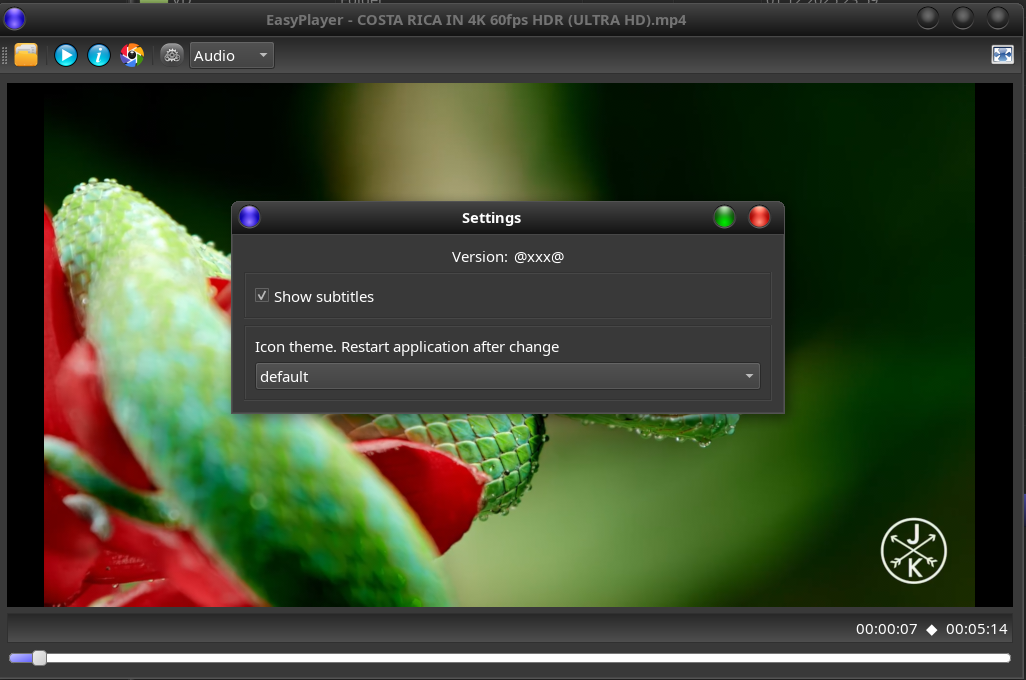
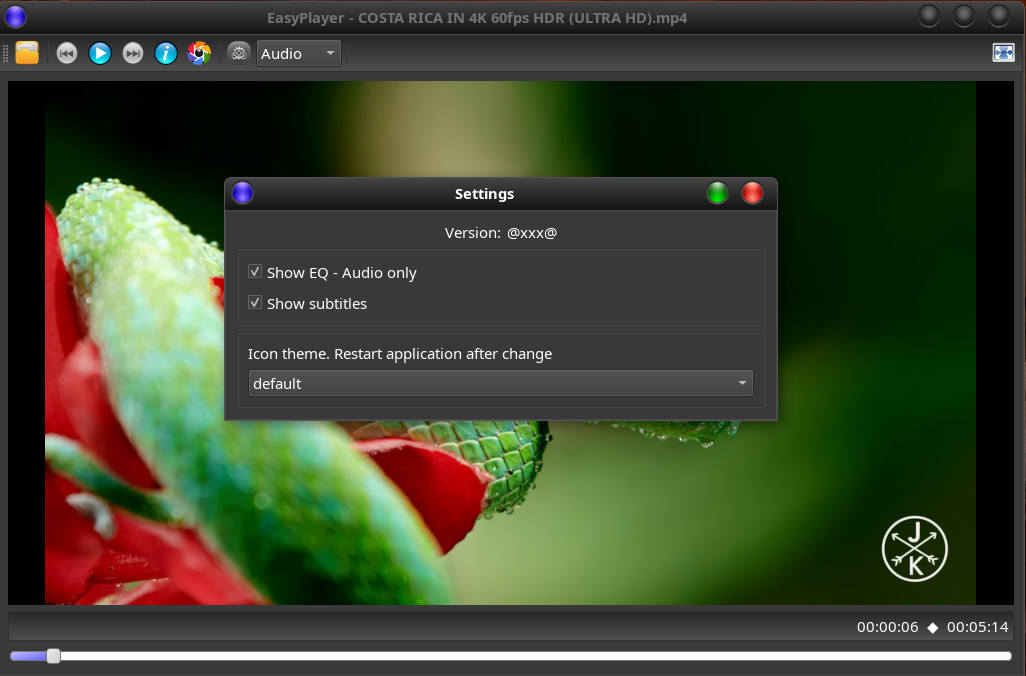
Graphic EQ display

diff --git a/src/EasyPlayer.py b/src/EasyPlayer.py
@@ -30,7 +30,7 @@ from PyQt6.QtOpenGLWidgets import QOpenGLWidget
 from lib.mpv import MPV, MpvGlGetProcAddressFn, MpvRenderContext
 from FFMPEGTools import  FFStreamProbe, OSTools, ConfigAccessor
 import sys, json, FFMPEGTools, getopt, traceback, locale, os, re
-from threading import Condition
+from threading import Condition, Lock
 from QtTools import SliderThread
 
 
@@ -51,6 +51,13 @@ def get_process_address(_, name):
 
 
 PLAYLIST_EXTENSIONS = {'.m3u', '.m3u8', '.pls', '.xspf'}
+
+try:
+    import numpy as np
+    import sounddevice as sd
+    HAS_SPECTRUM = True
+except ImportError:
+    HAS_SPECTRUM = False
 
 
 def _parsePlaylist(path):
@@ -100,8 +107,48 @@ def _parsePlaylist(path):
     return entries
 
 
+class SpectrumOverlay(QtWidgets.QWidget):
+    BAND_EDGES = [50, 100, 200, 400, 800, 1600, 3200, 6400, 12800, 14000,14500, 15000, 16000]
+    BANDS = len(BAND_EDGES)-1
+
+    def __init__(self, parent):
+        super().__init__(parent)
+        self.setAttribute(QtCore.Qt.WidgetAttribute.WA_TransparentForMouseEvents, True)
+        self._mags = [0.0] * self.BANDS
+        self._lock = Lock()
+
+    def setMags(self, mags):
+        with self._lock:
+            self._mags = mags[:]
+        self.update()
+
+    def clearMags(self):
+        with self._lock:
+            self._mags = [0.0] * self.BANDS
+        self.update()
+
+    def paintEvent(self, event):
+        with self._lock:
+            mags = self._mags[:]
+        painter = QtGui.QPainter(self)
+        painter.fillRect(self.rect(), QtGui.QColor(15, 15, 15))
+        w, h = self.width(), self.height()
+        bar_w = w // self.BANDS
+        gap = max(2, bar_w // 8)
+        for i, level in enumerate(mags):
+            bar_h = max(2, int(level * 0.8 * (h - 4)))
+            x = i * bar_w + gap
+            y = h - bar_h - 2
+            r = min(255, int(level * 2 * 255))
+            g = min(255, int((1.0 - level) * 2 * 255))
+            painter.fillRect(x, y, bar_w - gap * 2, bar_h, QtGui.QColor(r, g, 0))
+        painter.end()
+
+
 class Player(QOpenGLWidget):
     ERR_IDS = ["No video or audio streams selected.", "Failed to recognize file format."]
+    SPECTRUM_SAMPLE_RATE = 44100
+    SPECTRUM_BLOCK_SIZE = 4096
     triggerUpdate = pyqtSignal(float)
     triggerInitialized = pyqtSignal()
     fileLoaded = pyqtSignal()
@@ -129,7 +176,10 @@ class Player(QOpenGLWidget):
         self.lastError = None
         self.isAudioOnly = False
         self.durString = "00:00:00"
-        self._opengl_fbo=None
+        self._opengl_fbo = None
+        self._specStream = None
+        self._specOverlay = SpectrumOverlay(self)
+        self._specOverlay.hide()
         
     def initializeGL(self) -> None:
         self.ctx = MpvRenderContext(
@@ -208,12 +258,90 @@ class Player(QOpenGLWidget):
         sc = self.devicePixelRatio()
         pw = int(w * sc)
         ph = int(h * sc)
-        self._opengl_fbo = {'w': pw, 'h': ph, 'fbo': self.defaultFramebufferObject()}        
+        self._opengl_fbo = {'w': pw, 'h': ph, 'fbo': self.defaultFramebufferObject()}
+        self._specOverlay.setGeometry(0, 0, w, h)        
         
 
     def paintGL(self):
         if self.ctx and self._opengl_fbo:
-            self.ctx.render(flip_y=True, opengl_fbo=self._opengl_fbo)
+            fbo = {**self._opengl_fbo, 'fbo': self.defaultFramebufferObject()}
+            self.ctx.render(flip_y=True, opengl_fbo=fbo)
+
+    def paintEvent(self, event):
+        super().paintEvent(event)
+
+    def startCapture(self):
+        if not HAS_SPECTRUM or self._specStream is not None:
+            return
+        try:
+            device = self._findMonitorDevice()
+            if device and isinstance(device, str):
+                os.environ['PULSE_SOURCE'] = device
+                device = 'pulse'
+            self._specStream = sd.InputStream(
+                device=device,
+                samplerate=self.SPECTRUM_SAMPLE_RATE,
+                channels=1,
+                blocksize=self.SPECTRUM_BLOCK_SIZE,
+                dtype='float32',
+                callback=self._audioCallback
+            )
+            self._specStream.start()
+            self._specOverlay.show()
+        except Exception:
+            Log.exception("Spectrum capture failed")
+
+    def stopCapture(self):
+        if self._specStream:
+            try:
+                self._specStream.stop()
+                self._specStream.close()
+            except Exception:
+                pass
+            self._specStream = None
+        self._specOverlay.hide()
+        self._specOverlay.clearMags()
+
+    def _findMonitorDevice(self):
+        try:
+            import subprocess
+            result = subprocess.run(['pactl', 'get-default-sink'], capture_output=True, text=True, timeout=2)
+            if result.returncode == 0:
+                monitor = result.stdout.strip() + '.monitor'
+                Log.info("Spectrum: using monitor source %s", monitor)
+                return monitor
+        except Exception:
+            pass
+        Log.info("Spectrum: no monitor device found, using default input")
+        return None
+
+    def _audioCallback(self, indata, frames, time, status):
+        data = indata[:, 0]
+        windowed = data * np.hanning(len(data))
+        fft_data = np.abs(np.fft.rfft(windowed))
+        freqs = np.fft.rfftfreq(len(data), 1.0 / self.SPECTRUM_SAMPLE_RATE)
+        DB_FLOOR = -60.0
+        reference = self.SPECTRUM_BLOCK_SIZE / 4.0
+        new_mags = []
+        for i in range(SpectrumOverlay.BANDS):
+            mask = (freqs >= SpectrumOverlay.BAND_EDGES[i]) & (freqs < SpectrumOverlay.BAND_EDGES[i + 1])
+            if mask.any():
+                val = float(np.max(fft_data[mask])) / reference
+                db = 20.0 * np.log10(val) if val > 0 else DB_FLOOR
+                if i >= SpectrumOverlay.BANDS - 6:
+                    db += 18.0
+                new_mags.append(max(0.0, min(1.0, (db - DB_FLOOR) / -DB_FLOOR)))
+            else:
+                new_mags.append(0.0)
+        overlay = self._specOverlay
+        with overlay._lock:
+            for i in range(SpectrumOverlay.BANDS):
+                if new_mags[i] > overlay._mags[i]:
+                    overlay._mags[i] = overlay._mags[i] + 0.5 * (new_mags[i] - overlay._mags[i]) #0.3
+                else:
+                    overlay._mags[i] = overlay._mags[i] * 0.95  #0.85
+        overlay.update()
+
                   
     def do_update(self):
         self.update()
@@ -274,6 +402,7 @@ class Player(QOpenGLWidget):
             self.lastError = "Invalid media file"
             self.onError.emit(self.lastError)
         self.fileLoaded.emit()
+
 
     def _onTimePos(self, _name, val):
         if val is not None:
@@ -427,6 +556,7 @@ class Player(QOpenGLWidget):
                 self.seekLock.notify_all() 
 
 
+
 class MainFrame(QtWidgets.QMainWindow):
     SLIDER_RESOLUTION = 1000 * 1000
     
@@ -451,10 +581,6 @@ class MainFrame(QtWidgets.QMainWindow):
         self.loadAction.setShortcut('Ctrl+L')
         self.loadAction.triggered.connect(self.loadFile)
         
-        # self.exitAction = QtGui.QAction(QtGui.QIcon(ICOMAP.ico("buttonStop")), 'Exit', self)
-        # self.exitAction.setShortcut('Ctrl+Q')
-        # self.exitAction.triggered.connect(QApplication.quit)        
-        
         self.playAction = QtGui.QAction(QtGui.QIcon(ICOMAP.ico("playStart")), 'Play media (toggle with space)', self)
         self.shortcutPlay = QtGui.QShortcut(QtGui.QKeySequence("Space"), self)
         self.shortcutPlay.setContext(QtCore.Qt.ShortcutContext.ApplicationShortcut)
@@ -478,13 +604,11 @@ class MainFrame(QtWidgets.QMainWindow):
         self.mediaSettings.triggered.connect(self._openMediaSettings)
 
         style = self.style()
-        #self.prevTrackAction = QtGui.QAction(style.standardIcon(QtWidgets.QStyle.StandardPixmap.SP_MediaSkipBackward), 'Previous track', self)
         self.prevTrackAction = QtGui.QAction(QtGui.QIcon(ICOMAP.ico("prev")), 'Previous track', self)
         self.prevTrackAction.setShortcut('Ctrl+Left')
         self.prevTrackAction.triggered.connect(self.player.prevTrack)
         self.prevTrackAction.setEnabled(False)
 
-        #self.nextTrackAction = QtGui.QAction(style.standardIcon(QtWidgets.QStyle.StandardPixmap.SP_MediaSkipForward), 'Next track', self)
         self.nextTrackAction = QtGui.QAction(QtGui.QIcon(ICOMAP.ico("next")), 'Next track', self)
         self.nextTrackAction.setShortcut('Ctrl+Right')
         self.nextTrackAction.triggered.connect(self.player.nextTrack)
@@ -495,12 +619,13 @@ class MainFrame(QtWidgets.QMainWindow):
         self.languagebox.setToolTip("Select audio")
 
         '''
-        self.checkSubtitle = QtWidgets.QCheckBox("Subtitles")
-        self.checkSubtitle.setChecked(False)
-        self.checkSubtitle.setToolTip("Subtitles")
-        self.checkSubtitle.stateChanged.connect(self._onSubtitleChanged)
+        self.eqAction = QtGui.QAction(QtGui.QIcon(ICOMAP.ico("eq")), 'Spectrum analyzer', self)
+        self.eqAction.setCheckable(True)
+        self.eqAction.setChecked(self.settings.hasEQ())
+        self.eqAction.setEnabled(HAS_SPECTRUM)
+        self.eqAction.toggled.connect(self.settings.setEQ)
         '''
-
+        
         self.toolbar = self.addToolBar('Main')
         self.toolbar.addAction(self.loadAction)
         self.toolbar.addSeparator()
@@ -512,10 +637,11 @@ class MainFrame(QtWidgets.QMainWindow):
         self.toolbar.addSeparator()
         self.toolbar.addAction(self.mediaSettings)
         self.toolbar.addWidget(self.languagebox)
-        '''
         self.toolbar.addSeparator()
-        self.toolbar.addWidget(self.checkSubtitle)
-        '''
+        #self.toolbar.addAction(self.eqAction)
+        spacer = QtWidgets.QWidget()
+        spacer.setSizePolicy(QtWidgets.QSizePolicy.Policy.Expanding, QtWidgets.QSizePolicy.Policy.Preferred)
+        self.toolbar.addWidget(spacer)
         self.toolbar.addAction(self.fsAction)
 
         color = self.toolbar.palette().color(QtGui.QPalette.ColorRole.Window)
@@ -547,7 +673,7 @@ class MainFrame(QtWidgets.QMainWindow):
         self.ui_InfoLabel.setToolTip("Infos about the media position")
         rowLayout.addWidget(self.ui_NowPlaying)
         rowLayout.addWidget(self.ui_InfoLabel)
-        
+
         self._createSlider()
        
         box = self._makeLayout()
@@ -601,7 +727,8 @@ class MainFrame(QtWidgets.QMainWindow):
             self._onSubtitleChanged(True)
         
     def _prepareNextStream(self, streamData):
-        isVideo = not self.player.isAudioOnly
+        isAudio = self.player.isAudioOnly
+        isVideo = not isAudio
         self.languagebox.setEnabled(isVideo)
         self.photoAction.setEnabled(isVideo)
         hasPlaylist = self.player.isPlaylist and len(self.player.mpv.playlist) > 1
@@ -609,6 +736,8 @@ class MainFrame(QtWidgets.QMainWindow):
         self.nextTrackAction.setEnabled(hasPlaylist)
         if not hasPlaylist:
             self.ui_NowPlaying.setText("")
+        if not isAudio:
+            self.player.stopCapture()
         if isVideo:
             self._updateLang(streamData)
 
@@ -642,7 +771,10 @@ class MainFrame(QtWidgets.QMainWindow):
 
     # #settings callback 2
     def _onEQChanged(self, isSelected):
-        print("Should be EQ:", isSelected)
+        if isSelected and self.player.isAudioOnly:
+            self.player.startCapture()
+        else:
+            self.player.stopCapture()
 
     def _createSlider(self):
         self.ui_Slider = QtWidgets.QSlider(QtCore.Qt.Orientation.Horizontal)
@@ -679,7 +811,6 @@ class MainFrame(QtWidgets.QMainWindow):
         btn1Box.addWidget(self.uiStopButton)
         '''
         mainBox.addWidget(self.player)
-        #mainBox.addWidget(self.ui_InfoLabel)
         mainBox.addWidget(self.ui_InfoRow)
         mainBox.addWidget(self.ui_Slider)
         return mainBox
@@ -726,9 +857,15 @@ class MainFrame(QtWidgets.QMainWindow):
         if isPlaying:
             self.__enableActionsOnVideoPlay(False)
             self.playAction.setIcon(QtGui.QIcon(ICOMAP.ico("playPause")))
+            if self.player.isAudioOnly:
+                if not HAS_SPECTRUM:
+                    self.ui_NowPlaying.setText("Spectrum analyzer not available — install numpy and sounddevice")
+                elif self.settings.hasEQ():
+                    self.player.startCapture()
         else:
             self.__enableActionsOnVideoPlay(True)
-            self.playAction.setIcon(QtGui.QIcon(ICOMAP.ico("playStart")))             
+            self.playAction.setIcon(QtGui.QIcon(ICOMAP.ico("playStart")))
+            self.player.stopCapture()             
 
     # manual slider - sync with gui    
     def _onSliderMoved(self, pos):
@@ -762,7 +899,8 @@ class MainFrame(QtWidgets.QMainWindow):
     
     @pyqtSlot(str)
     def _onPlayerError(self, errorMsg):
-        self.getErrorDialog("Invalid file", "Not a valid codec found", "on_player error").show()
+        Log.error("MPV error: %s",errorMsg)
+        self.getErrorDialog("Invalid file", "Not a valid codec found", errorMsg).show()
     
     def __enableActionsOnVideoPlay(self, enable):
         self.loadAction.setEnabled(enable)
@@ -951,7 +1089,7 @@ class SettingsModel(QtCore.QObject):
         # keep flags- save them later
         super(SettingsModel, self).__init__()
         self.iconSet = ep_config.get("icoSet", IconMapper.DEFAULT)
-        self.showEQ = ep_config.getBoolean("showEQ", False)
+        self.showEQ = ep_config.getBoolean("showEQ", True)
         self.mainFrame = mainframe
         self.showSubs = ep_config.getBoolean("subtitles", False)  # id if subtitle should be presented. mpv only
         self.isoCodes = []
@@ -1046,7 +1184,7 @@ class SettingsDialog(QtWidgets.QDialog):
         self.setIconTheme.setToolTip("Select icon theme - restart to take effect")
 
         clickBox = QtWidgets.QVBoxLayout(frame1)
-        # clickBox.addWidget(self.showEQ)
+        clickBox.addWidget(self.showEQ)
         clickBox.addWidget(self.showSub)
 
         subBox = QtWidgets.QVBoxLayout(frame2)

diff --git a/README.md b/README.md
@@ -1,7 +1,7 @@
 # EasyPlayer
-Version 1.0.0
+Version 1.1.0
 
-![Download](https://github.com/kanehekili/EasyPlayer/releases/download/1.0.1/easyplayer1.0.1.tar)
+![Download](https://github.com/kanehekili/EasyPlayer/releases/download/1.1.0/easyplayer1.1.0.tar)
 
 A simple video and audio player based on mpv and QT6 . It is a spin off of my VideoCut app. It handles pictures, plays videos and audio files.
 
@@ -30,6 +30,7 @@ If you are running a DE with GTK/Gnome (as opposed to LXQT or KDE)  you might se
 * Subtitles can be shown (settings)
 * Flat and non flat icon set
 * Language can be selected
+* Supports an EQ-display for audio files - Some distros need to install python3-sounddevice via pip. (Not mandatory) 
 
 ### Virtualenv or conda 
 The fast remux binary doesn't run in a virtual environment, since the ffmpeg libraries used are not available. The ffmpeg blob could be used, if it would be on the /usr/bin path on the host system. Cross OS binary calls tend be a lot slower that in the native environment - so this software is limited to Linux (native or virtualized)
@@ -93,7 +94,10 @@ sudo dnf python3-qt6 ffmpeg python3-pillow-qt mpv-libs.x86_64
 * execute `sudo /opt/easyplayer/uninstall.sh`
 
 ### Changes 
-09.03.2025
+12.03.2026
+* Graphic EQ display for audio files 
+
+09.03.2026
 * Support for playlists and streams
 
 05.03.2026
